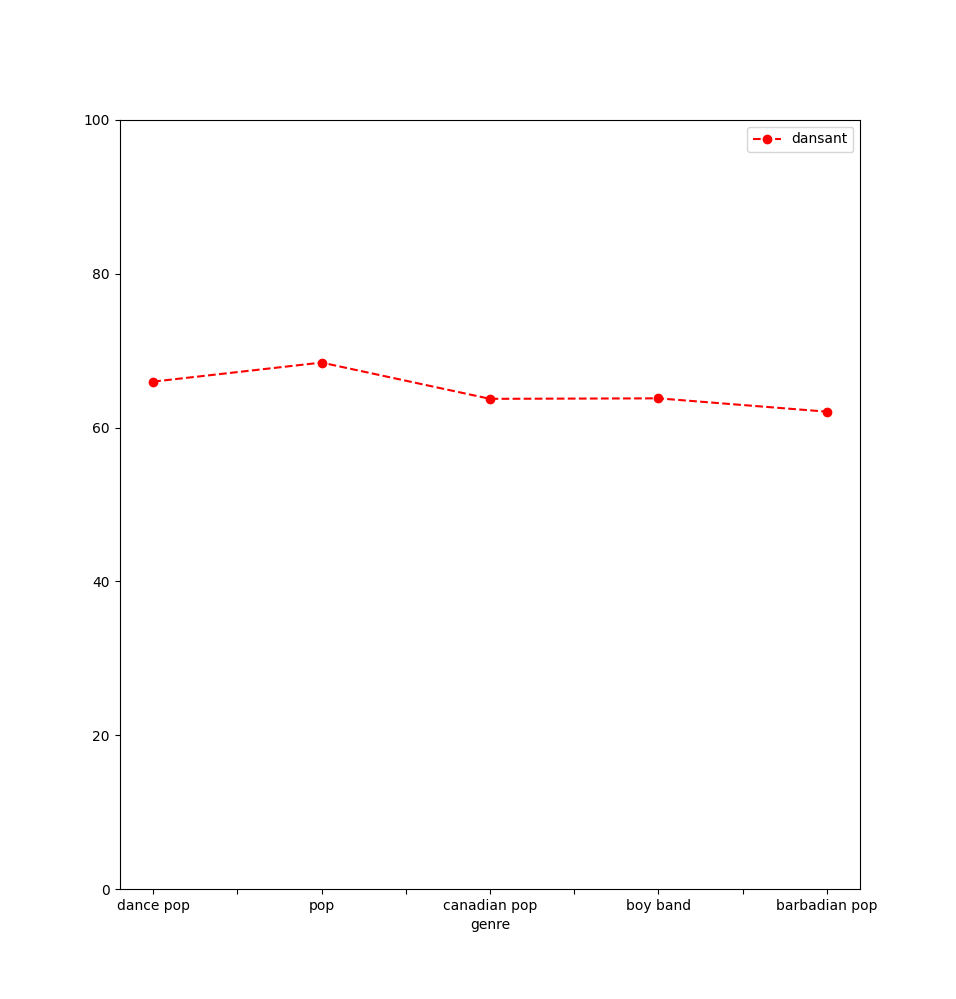
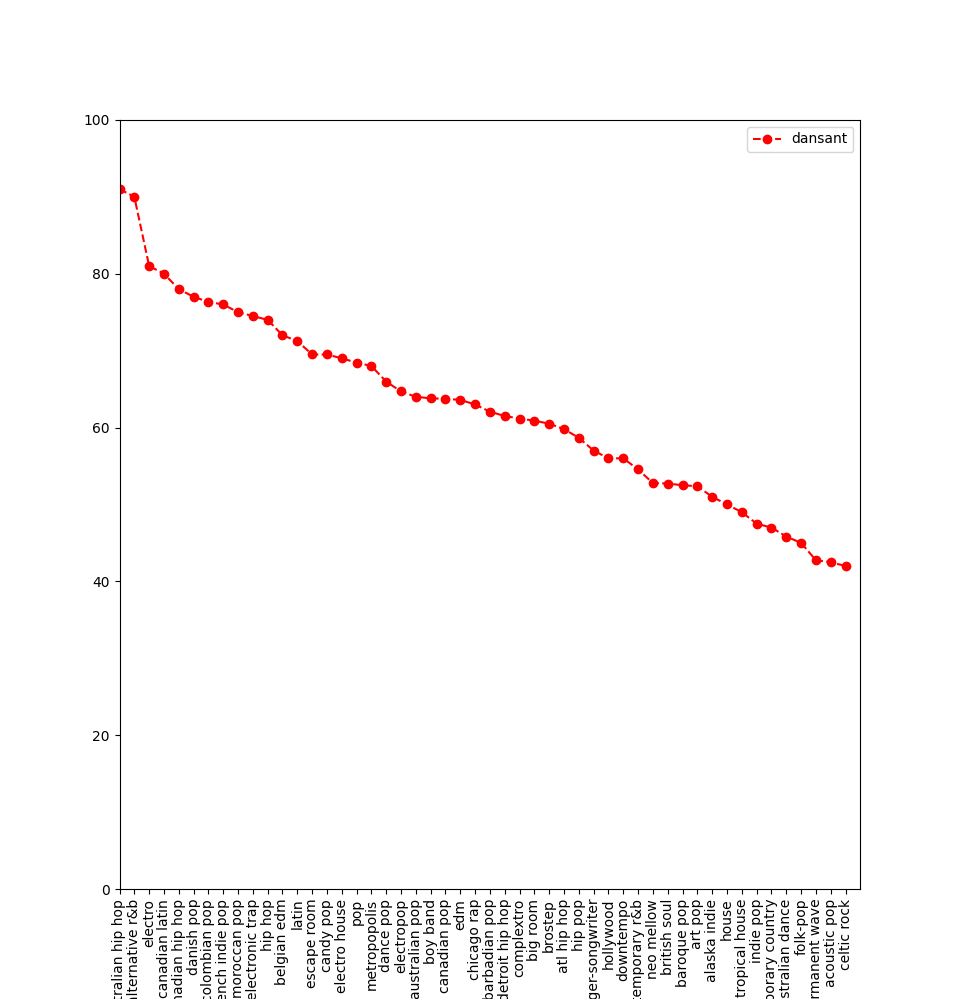
ajout image

diff --git a/visualisation.py b/visualisation.py
@@ -190,11 +190,13 @@ try:
                                 ) AS dansant
                             FROM musique m1
                             GROUP BY m1.genre
-                            ORDER BY count(m1.id) DESC
-                            FETCH FIRST 5 ROWS ONLY;
+                            ORDER BY dansant DESC;
                         ''', con=co)
     print(datafr13)
     fig13=datafr13.plot(x='genre',y='dansant',style='o--r')
+    fig13.set_xticks(datafr13.index)
+    fig13.set_xticklabels(datafr13['genre'], rotation=90)
+    fig13.set_xlim(0,50)
     fig13.set_ylim(0,100)
     plt.show()
 
